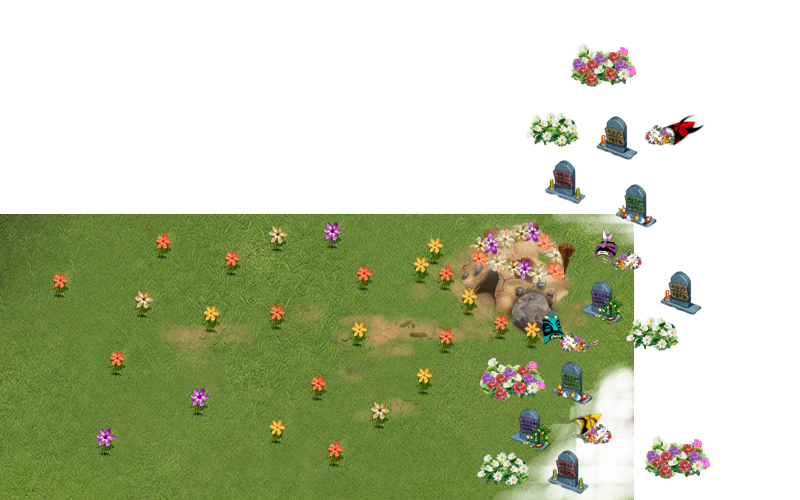
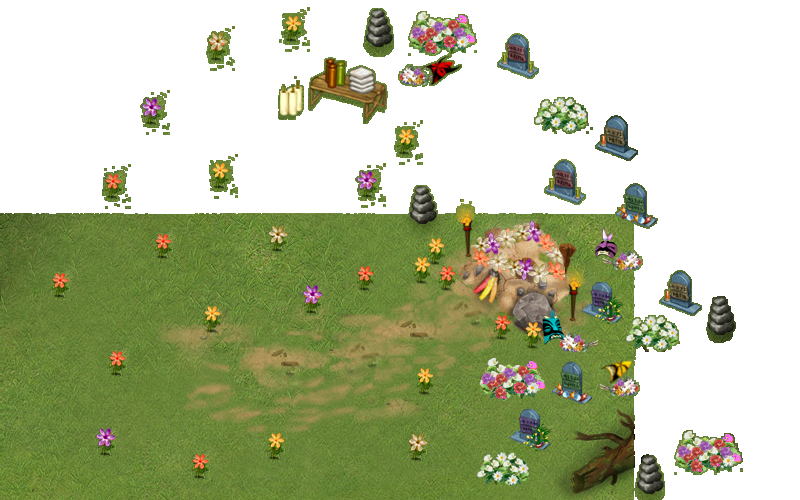
More Respectful Flower Hovel Cover: the owner's approved art
The owner (2026-11-08): "I think this will do for now". The 800 x 500
picture is transparent wherever it equals the bare map and keeps the
old hovel's footprint solid; the row is rebuilt (size and SHA-256), the
draw y stays 1251.

diff --git a/scripts/build_vv5_respectful_hovel_cover.py b/scripts/build_vv5_respectful_hovel_cover.py
@@ -5,13 +5,14 @@ normal graphics and fix vanilla bugs vv5 graphic with the one I'm going to give 
 respectful hovel cover over the original one? its bottom and left edges should be aligned to the bottom and left
 edges of the original completed hovel."
 
-THE ART.  The owner's picture (assets/vv5_respectful_hovel_cover/vvfp_respectful_hovel.png, the owner's file byte
-for byte; the owner, after the first mockup: "I'll change the art", so this first one is a placeholder) is 800 x 500
-RGBA, flattened from a GIMP file whose bottom layers are the completed hovel cover at
-(0, 214): 634 x 286, flush with the canvas's bottom and left edges.  Graves, grave flowers, heathen heads and flowers
-are painted on top, some above the old picture (up to y 44) and right of it (up to x 711).  The base is already in
-the picture, so it is shipped as it is: compositing it over the hovel again would only thicken the hovel's faded
-edges.  It goes to Images as vvfp_respectful_hovel.png; the game's own hovel_cover.png and Fix Vanilla Bugs'
+THE ART.  The owner's picture (assets/vv5_respectful_hovel_cover/vvfp_respectful_hovel.png; the owner, 2026-11-08,
+of this one: "I think this will do for now") is 800 x 500 RGBA.  The owner painted it fully opaque over the bare
+map, with the completed hovel cover (634 x 286) flush with the canvas's bottom and left edges at (0, 214).  It was
+then made transparent wherever it equals the bare map (within 14 levels), keeping every object the owner added with
+a 1-pixel grown edge and the old hovel's footprint (where Fix Vanilla Bugs' hovel has alpha) solid, so laid over the
+map it matches the owner's painting within 14 levels; its objects reach up to y 7 and right to x 743.  The base is
+already in the picture, so it is shipped as it is: compositing it over the hovel again would only thicken the
+hovel's faded edges.  It goes to Images as vvfp_respectful_hovel.png; the game's own hovel_cover.png and Fix Vanilla Bugs'
 vvfp_hovel.png are never changed.
 
 THE DRAW.  0x4370E0 is the only drawer of image 0x1B (the image table entry 0x4CF768); once project 25

diff --git a/tests/test_vv5_respectful_hovel_cover.py b/tests/test_vv5_respectful_hovel_cover.py
@@ -7,8 +7,8 @@ left edges of the original completed hovel".
 0x4370E0, the only drawer of image 0x1B, calls 0x44F320(sprite, x, y, 1.0f) once The Last Heathen (project 25) is
 done; 0x44F320 draws at once from the top-left corner (tests/test_vv5_hovel_cover.py has the stock trace).  The
 completed hovel is Fix Vanilla Bugs' 634 x 286 picture at (1702, 1465), bottom-left (1702, 1751); the owner's
-picture (its height read from the PNG; the first, placeholder art is 800 x 500 with its hovel layers at (0, 214),
-flush with its bottom and left edges) is drawn at (1702, 1751 - height) = (1702, 1251) for 500, with Fix Vanilla
+picture (its height read from the PNG; the owner's approved art is 800 x 500 with the hovel at (0, 214), flush
+with its bottom and left edges) is drawn at (1702, 1751 - height) = (1702, 1251) for 500, with Fix Vanilla
 Bugs on or off.  New art is the one file plus the builder re-run; nothing here needs changing.  The row writes none of Fix Vanilla Bugs' bytes
 (scripts/build_vv5_respectful_hovel_cover.py has the design).
 
